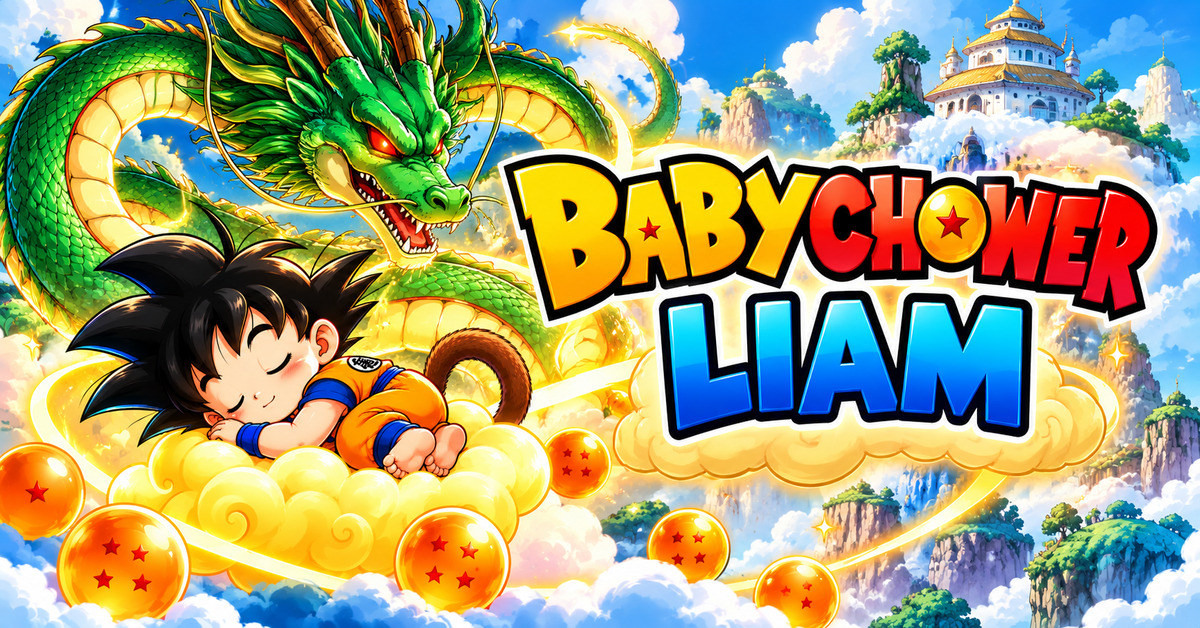
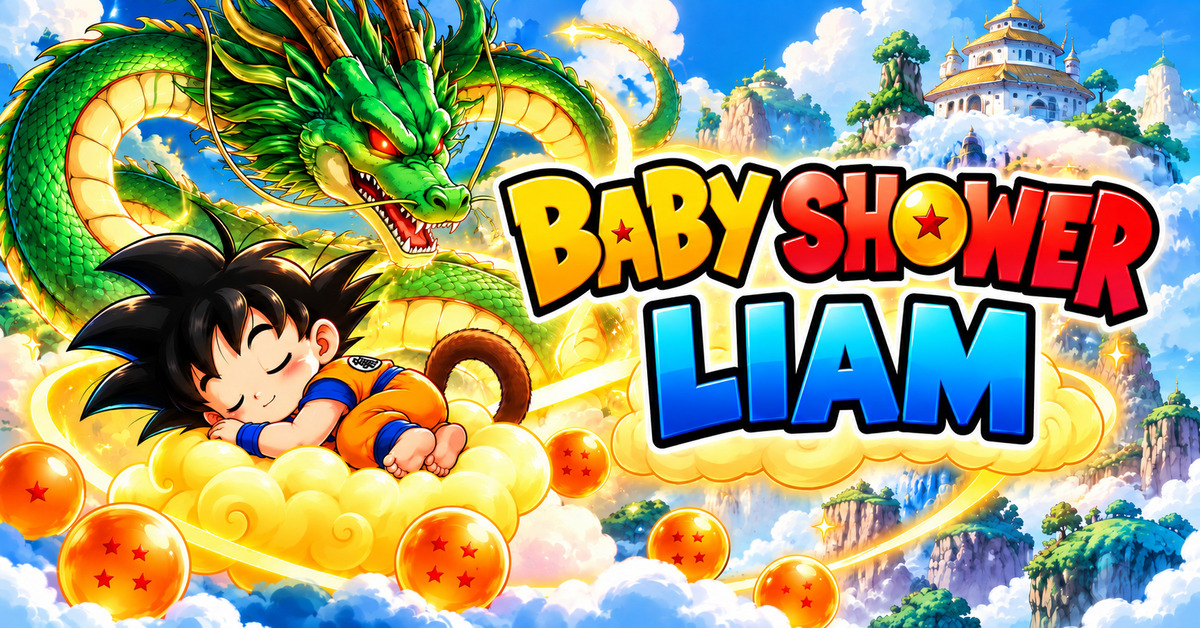
Add files via upload

diff --git a/inviti/babyShower_A&A/script.js b/inviti/babyShower_A&A/script.js
@@ -71,6 +71,60 @@
 
   const t = C.tema || {};
 
+  /* =========================================================
+   FONT DINAMICI DAL CONFIG
+========================================================= */
+
+  function loadGoogleFont(fontValue) {
+
+    if (!fontValue) return;
+
+    const fontName = fontValue
+      .split(',')[0]
+      .replace(/['"]/g, '')
+      .trim();
+
+    if (!fontName) return;
+
+    const id =
+      'google-font-' +
+      fontName
+        .toLowerCase()
+        .replace(/\s+/g, '-');
+
+    if (document.getElementById(id)) return;
+
+    const link = document.createElement('link');
+
+    link.id = id;
+    link.rel = 'stylesheet';
+    link.href =
+      'https://fonts.googleapis.com/css2?family=' +
+      encodeURIComponent(fontName).replace(/%20/g, '+') +
+      ':wght@400;500;600;700;800&display=swap';
+
+    document.head.appendChild(link);
+  }
+
+  loadGoogleFont(t.fontTitolo);
+  loadGoogleFont(t.fontNome);
+  loadGoogleFont(t.fontTesto);
+
+  document.documentElement.style.setProperty(
+    '--font-title',
+    t.fontTitolo || "'Bangers', cursive"
+  );
+
+  document.documentElement.style.setProperty(
+    '--font-name',
+    t.fontNome || "'Great Vibes', cursive"
+  );
+
+  document.documentElement.style.setProperty(
+    '--font-text',
+    t.fontTesto || "'Montserrat', sans-serif"
+  );
+
   document.documentElement.style.setProperty(
     '--bg',
     t.coloreSfondoFallback || '#eaf7ff'
@@ -478,7 +532,7 @@
                     <div class="reference-image-side">
 
                         ${img(
-       C.luogo.immagine,
+      C.luogo.immagine,
       'reference-location-image',
       ''
     )}
@@ -578,19 +632,19 @@
 
       if (C.regali.immagineLista) {
 
-    html += `
+        html += `
         <button
             type="button"
             class="btn reference-gift-button"
             id="openGiftModal"
         >
             ${esc(
-                C.regali.testoBottone ||
-                'LISTA DE REGALOS'
-            )}
+          C.regali.testoBottone ||
+          'LISTA DE REGALOS'
+        )}
         </button>
     `;
-}
+      }
     }
 
 
@@ -673,7 +727,7 @@
                     <div class="reference-image-side">
 
                         ${img(
-       C.rsvp.immagine,
+      C.rsvp.immagine,
       'reference-rsvp-image',
       ''
     )}
@@ -794,7 +848,7 @@
   )}
 
                 ${img(
-      C.finale?.immagineDecorazione,
+    C.finale?.immagineDecorazione,
     'final-baby',
     ''
   )}
@@ -830,10 +884,10 @@
    MODAL LISTA REGALOS
 ========================================================= */
 
-if (
+  if (
     C.regali?.attivo &&
     C.regali?.immagineLista
-) {
+  ) {
 
     html += `
         <div
@@ -860,15 +914,15 @@ if (
                 </button>
 
                 ${img(
-                    C.regali.immagineLista,
-                    'gift-modal-image',
-                    'Lista de regalos'
-                )}
+      C.regali.immagineLista,
+      'gift-modal-image',
+      'Lista de regalos'
+    )}
 
             </div>
         </div>
     `;
-}
+  }
 
 
   /* =========================================================
@@ -921,11 +975,11 @@ if (
    APERTURA / CHIUSURA MODAL REGALOS
 ========================================================= */
 
-const giftModal = $('#giftModal');
-const openGiftModal = $('#openGiftModal');
-const closeGiftModal = $('#closeGiftModal');
+  const giftModal = $('#giftModal');
+  const openGiftModal = $('#openGiftModal');
+  const closeGiftModal = $('#closeGiftModal');
 
-function apriGiftModal() {
+  function apriGiftModal() {
 
     if (!giftModal) return;
 
@@ -933,9 +987,9 @@ function apriGiftModal() {
     giftModal.setAttribute('aria-hidden', 'false');
 
     document.body.classList.add('modal-open');
-}
+  }
 
-function chiudiGiftModal() {
+  function chiudiGiftModal() {
 
     if (!giftModal) return;
 
@@ -943,37 +997,37 @@ function chiudiGiftModal() {
     giftModal.setAttribute('aria-hidden', 'true');
 
     document.body.classList.remove('modal-open');
-}
+  }
 
-openGiftModal?.addEventListener(
+  openGiftModal?.addEventListener(
     'click',
     apriGiftModal
-);
+  );
 
-closeGiftModal?.addEventListener(
+  closeGiftModal?.addEventListener(
     'click',
     chiudiGiftModal
-);
+  );
 
-giftModal
+  giftModal
     ?.querySelector('.gift-modal-backdrop')
     ?.addEventListener(
-        'click',
-        chiudiGiftModal
+      'click',
+      chiudiGiftModal
     );
 
-document.addEventListener(
+  document.addEventListener(
     'keydown',
     event => {
 
-        if (
-            event.key === 'Escape' &&
-            giftModal?.classList.contains('active')
-        ) {
-            chiudiGiftModal();
-        }
+      if (
+        event.key === 'Escape' &&
+        giftModal?.classList.contains('active')
+      ) {
+        chiudiGiftModal();
+      }
     }
-);
+  );
 
 
   /* =========================================================

diff --git a/inviti/babyShower_A&A/config.js b/inviti/babyShower_A&A/config.js
@@ -8,7 +8,7 @@ const INVITO_CONFIG = {
   ========================================================= */
 
   evento: {
-    nome: "XXXXXXX",
+    nome: "Liam",
     genitori: "Arturo y Andrea",
 
     titolo: "BABY SHOWER",
@@ -394,7 +394,7 @@ const INVITO_CONFIG = {
       "'Bangers', cursive",
 
     fontNome:
-      "'Great Vibes', cursive",
+      "'Allura', cursive",
 
     fontTesto:
       "'Montserrat', sans-serif",

diff --git a/inviti/babyShower_A&A/style.css b/inviti/babyShower_A&A/style.css
@@ -483,9 +483,7 @@ body {
 .parents {
     margin: 0;
 
-    font-family:
-        Great Vibes,
-        cursive;
+   font-family: var(--font-name);
 
     font-size:
         clamp(
@@ -542,9 +540,7 @@ body {
 .baby-name {
     margin: 0;
 
-    font-family:
-        Great Vibes,
-        cursive;
+    font-family:var(--font-name);
 
     font-size:
         clamp(

diff --git a/inviti/babyShower_A&A/index.html b/inviti/babyShower_A&A/index.html
@@ -68,7 +68,7 @@
     >
 
     <link
-        href="https://fonts.googleapis.com/css2?family=Bangers&family=Great+Vibes&family=Montserrat:wght@400;500;600;700;800&display=swap"
+        href="https://fonts.googleapis.com/css2?family=Bangers&family=Pacifico&family=Montserrat:wght@400;500;600;700;800&display=swap"
         rel="stylesheet"
     >
 
